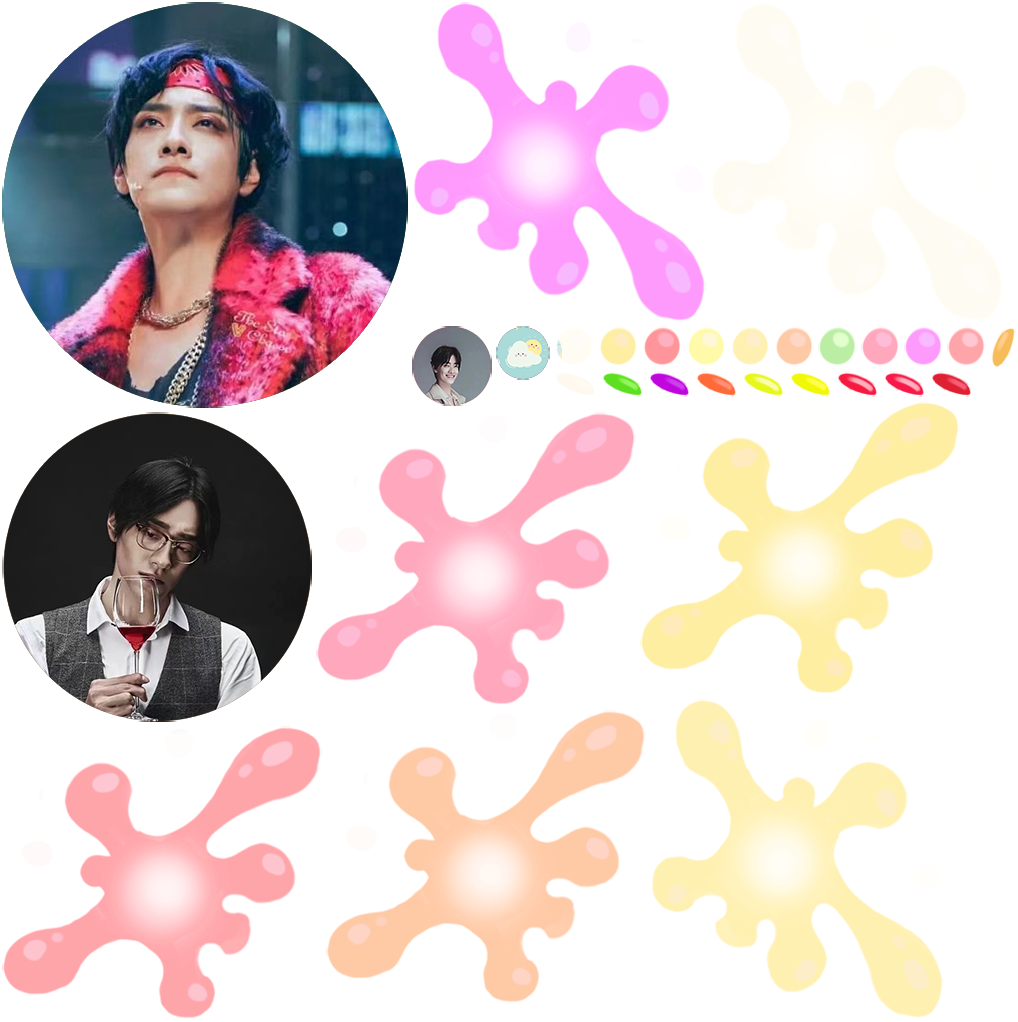
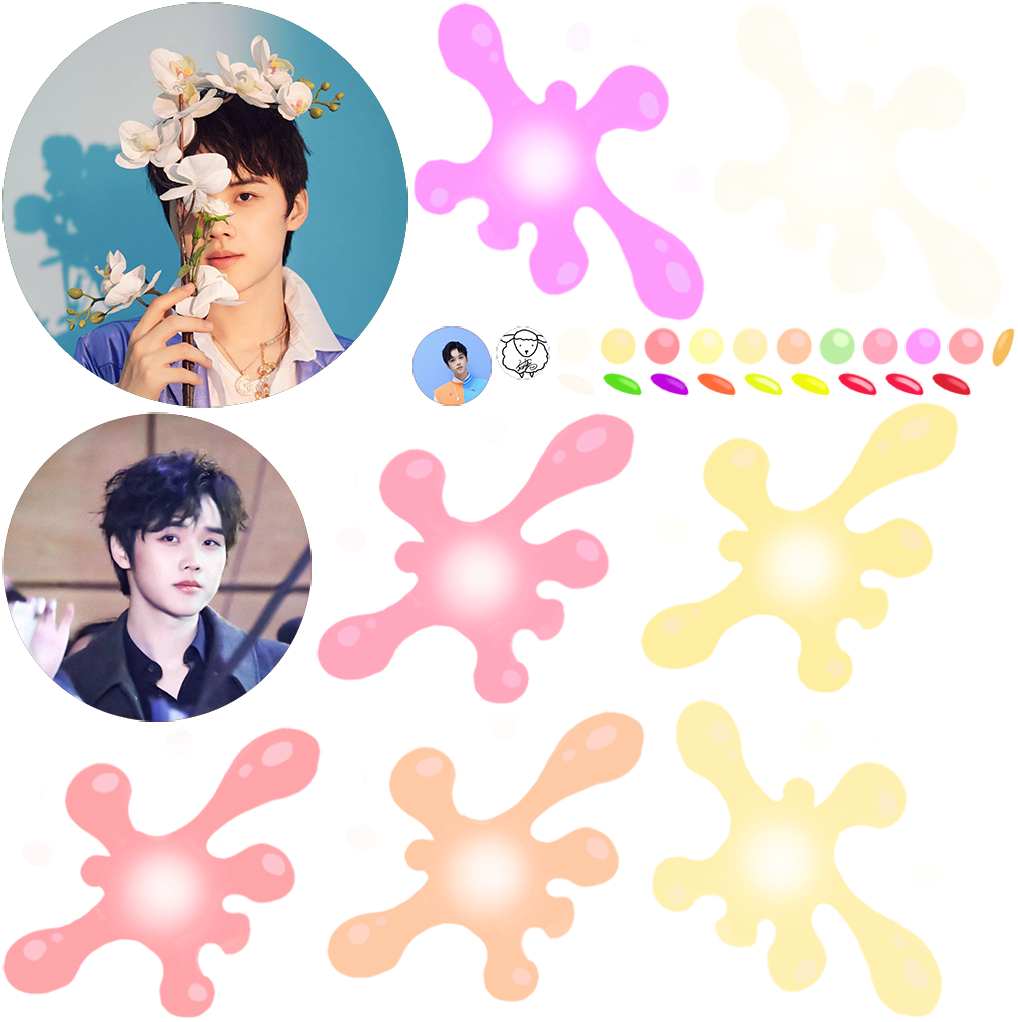
initial commit

Changed region(s): [[0.0, 0.0, 0.4263, 0.728], [0.3959, 0.3033, 0.5481, 0.3943]]

diff --git a/index.html b/index.html
@@ -4,7 +4,7 @@
 <head>
     <meta charset="utf-8">
 
-    <title>合成郑云龙</title>
+    <title>合成高猛男</title>
 
     <!--http://www.html5rocks.com/en/mobile/mobifying/-->
     <meta name="viewport" content="width=device-width,user-scalable=no,initial-scale=1, minimum-scale=1,maximum-scale=1" />
@@ -109,7 +109,7 @@
             //        console.log("window.navigator.language",window.navigator.language);
 
             if (window.navigator.language == "zh-CN" || window.navigator.language == "zh-cn") {
-                document.title = "合成郑云龙";
+                document.title = "合成高猛男";
             } 
 
 
